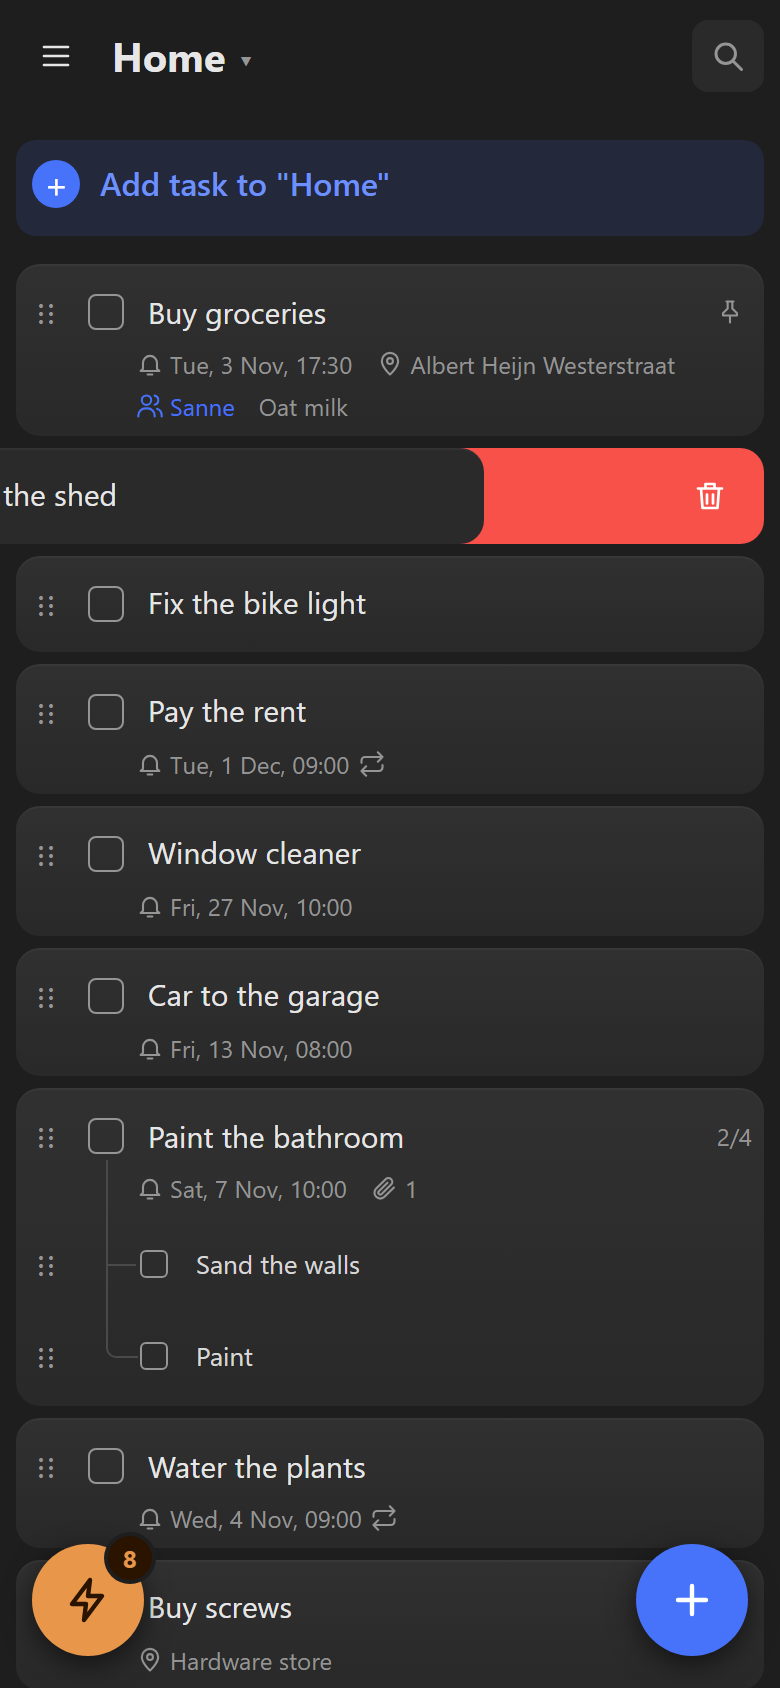
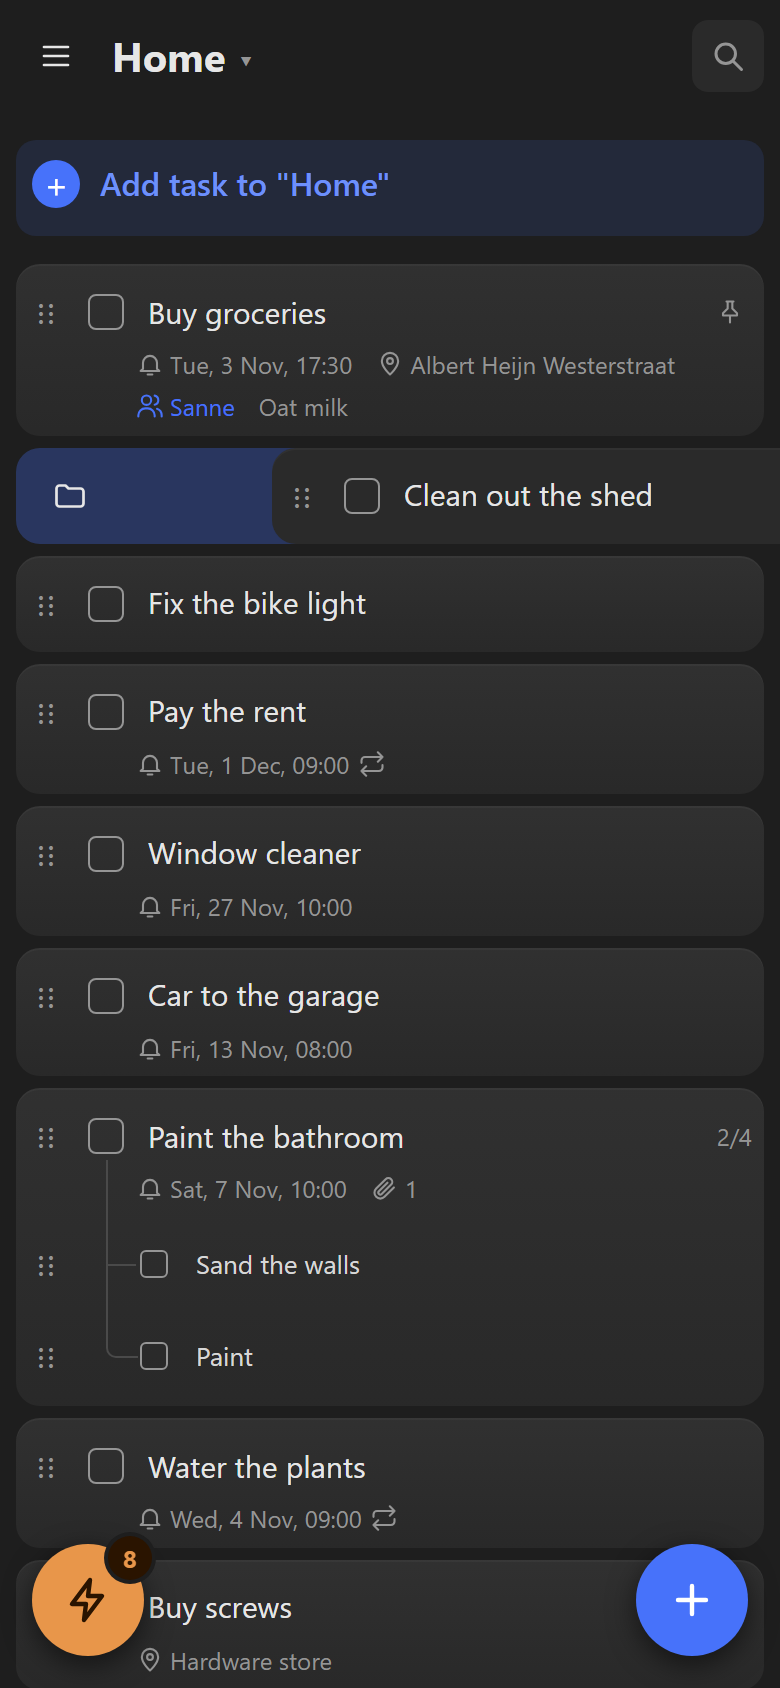
README in dark mode: gekleurde kaarten met vergrootglas, gewonere taal bovenaan
Feature-kaarten met een telefoon en een vergroot detail, een hero met drie
telefoons, donkere tegels en een statusbalk boven de schermen. Vegen naar
rechts, zodat de taak in beeld blijft. Uit een boomer- en een designer-review:
de NOTE in gewone taal met een directe link naar de app, een onderschrift
bij de hero en de techniek onder 'For developers'.

Changed region(s): [[0.5231, 0.2464, 0.9846, 0.3389], [0.0, 0.2464, 0.3692, 0.3389], [0.4308, 0.2773, 0.4923, 0.3081]]

diff --git a/docs/screenshots/src/compose.html b/docs/screenshots/src/compose.html
@@ -15,7 +15,7 @@
 
   .phone { --w: 200px; width: var(--w); aspect-ratio: 390 / 844; flex: none; position: relative;
     background: #0d0f14; border-radius: calc(var(--w) * .16); padding: calc(var(--w) * .035);
-    box-shadow: inset 0 0 0 1.5px #3a404d, 0 10px 24px rgb(0 0 0 / .22), 0 2px 6px rgb(0 0 0 / .12); }
+    box-shadow: inset 0 0 0 2px #4b5563, 0 10px 24px rgb(0 0 0 / .22), 0 2px 6px rgb(0 0 0 / .12); }
   .phone .scr { width: 100%; height: 100%; border-radius: calc(var(--w) * .125); overflow: hidden; background: #fff; }
   /* A status bar above the app, so the notch does not cover its header */
   .phone .bar { height: calc(var(--w) * .12); display: flex; align-items: center; justify-content: space-between;
@@ -70,7 +70,84 @@
     box.append(img);
     stage.append(box);
   }
-  if (q.get('bg')) document.body.style.background = q.get('bg');
+  // A crop on a dark page: a hairline instead of a shadow, which would leave a haze on GitHub's dark background
+  // (and transparent room around it, so it floats in its table cell instead of touching the cell's borders)
+  if (type === 'crop' && q.get('flat')) {
+    stage.style.padding = '12px';
+    stage.firstChild.style.boxShadow = 'inset 0 0 0 1px rgb(255 255 255 / .1)';
+    stage.firstChild.style.background = '#' + (bars[0] || '1e1e1e');
+  }
+
+  /* ?type=banner&img=&img2=&img3=&bg=           three phones on a coloured card, running off its bottom edge
+     ?type=card&img=&bg=&accent=&pill=&ring=x,y,w,h[,round]&crop=x,y,cw,ch[&cimg=]
+       one phone on a coloured card, a ring around a detail and that detail magnified beside it.
+       ring and crop are in the CSS pixels of a 390 px wide screen. */
+  function panel(w, h, bg) {
+    stage.style.padding = '0';
+    const c = document.createElement('div');
+    c.style.cssText = `position:relative;overflow:hidden;width:${w}px;height:${h}px;border-radius:28px;background:#${bg}`;
+    stage.append(c);
+    return c;
+  }
+  function place(el, x, y) {
+    el.style.position = 'absolute';
+    el.style.left = x + 'px';
+    el.style.top = y + 'px';
+    return el;
+  }
+  if (type === 'banner') {
+    const c = panel(880, 440, q.get('bg') || '1e293b');
+    // a soft yellow light behind the middle phone gives the card a focal point
+    c.style.background = `radial-gradient(420px 300px at 50% 70%, #facc1533, transparent), #${q.get('bg') || '1e293b'}`;
+    const side = (name, i, x) => {
+      const p = place(phone(name, 190, i), x, 112);
+      p.style.filter = 'brightness(.72)';
+      return p;
+    };
+    // the middle phone last, so it lies on top of the other two
+    c.append(side(q.get('img'), 0, 110), side(q.get('img3'), 2, 580), place(phone(q.get('img2'), 250, 1), 315, 44));
+  }
+  if (type === 'card') {
+    // &flip=1: phone on the right, magnified detail on the left; &h=: a shorter card when the screen is empty below
+    const W = 880, H = num('h', 420), accent = '#' + (q.get('accent') || 'fcd34d'), flip = !!q.get('flip');
+    const c = panel(W, H, q.get('bg') || '1e293b');
+    const pw = 250, px = flip ? W - 64 - pw : 64, py = 44;
+    c.append(place(phone(q.get('img'), pw, 0), px, py));
+    // where the screen content starts on the card, and its scale
+    const s = (pw - pw * 0.035 * 2) / 390, sx = px + pw * 0.035, sy = py + pw * 0.035 + pw * 0.12;
+
+    const [rx, ry, rw, rh] = q.get('ring').split(',').map(Number), round = q.get('ring').endsWith('round');
+    const ring = place(document.createElement('div'), sx + rx * s - 4, sy + ry * s - 4);
+    ring.style.cssText += `;width:${rw * s + 8}px;height:${rh * s + 8}px;border-radius:${round ? '50%' : '14px'};` +
+      `box-shadow:0 0 0 3px ${accent},0 0 18px 2px ${accent}55`;
+    c.append(ring);
+
+    const [cx, cy, cw, ch] = q.get('crop').split(',').map(Number);
+    const zw = 420, z = zw / cw, zh = ch * z, zx = flip ? 60 : 400, zy = Math.max(84, Math.min(H - zh - 40, (H - zh) / 2 + 20));
+    const zoom = place(document.createElement('div'), zx, zy);
+    zoom.style.cssText += `;width:${zw}px;height:${zh}px;overflow:hidden;border-radius:20px;background:#${bars[0] || '1e1e1e'};` +
+      `box-shadow:0 0 0 3px ${accent},0 24px 48px rgb(0 0 0 / .45)`;
+    const img = new Image();
+    img.src = src(q.get('cimg') || q.get('img'));
+    img.style.cssText = `position:absolute;width:${390 * z}px;left:${-cx * z}px;top:${-cy * z}px`;
+    zoom.append(img);
+
+    // a line from the ring to the magnified detail
+    const ax = flip ? sx + rx * s - 6 : sx + (rx + rw) * s + 6, ay = sy + (ry + rh / 2) * s;
+    const bx = flip ? zx + zw + 3 : zx - 3, by = zy + zh / 2;
+    const line = place(document.createElement('div'), ax, ay - 1.25);
+    line.style.cssText += `;width:${Math.hypot(bx - ax, by - ay)}px;height:2.5px;background:${accent};transform-origin:0 50%;` +
+      `transform:rotate(${Math.atan2(by - ay, bx - ax)}rad)`;
+    c.append(line, zoom);
+
+    if (q.get('pill')) {
+      const pill = place(document.createElement('span'), zx, 36);
+      pill.textContent = q.get('pill');
+      pill.style.cssText += `;font:600 15px/1 "Segoe UI",system-ui,sans-serif;color:#${q.get('bg')};background:${accent};padding:8px 14px;border-radius:99px`;
+      c.append(pill);
+    }
+  }
+  if (q.get('bg') && type !== 'banner' && type !== 'card') document.body.style.background = q.get('bg');
 </script>
 </body>
 </html>

diff --git a/README.md b/README.md
@@ -11,51 +11,41 @@
 
 > [!NOTE]
 > **What you're getting**
-> - ☁ Tick runs on **your own free Cloudflare account**. Setting it up takes **about 15 minutes** with [Claude Code](#get-your-own-in-about-15-minutes): no server, no subscription, no ads.
-> - 🤖 **Android:** an [app](https://github.com/DioVayne/tick/releases/latest/download/Tick.apk) with a home-screen widget and reminders by place. 🌐 **Web:** any browser, installable, works offline.
-> - 🍎 **iPhone and iPad:** the [web app](docs/iphone.md) only for now, so reminders by time but **no reminders by place**.
+> - 💸 **Free:** no subscription, no ads, no company that can switch it off.
+> - 🤖 **Android:** an app with a home-screen widget and reminders by place. 🍎 **iPhone and iPad:** the [web app](docs/iphone.md), with reminders by time but **no reminders by place**. 🌐 Any browser works too, also offline.
+> - 🛠 **Someone sets it up once** on a computer, in [about 15 minutes](#get-your-own-in-about-15-minutes): Claude Code does the work, on a free Cloudflare account. After that, everyone just uses the app. Not technical? Ask whoever helps you with computers to do this step.
+> - 📲 **Already have a Tick address?** [Download the Android app](https://github.com/DioVayne/tick/releases/latest/download/Tick.apk), open it and type that address.
 
 <p align="center">
-  <img src="docs/screenshots/hero.png" width="628" alt="Three phones with Tick in light mode: the Home list with Buy groceries pinned at the top, the task Buy groceries with a reminder at 17:30, a place reminder at the supermarket, shared with Sanne and a shopping checklist, and the shared list Weekend in the Ardennes with Take it buttons and who is on what">
+  <img src="docs/screenshots/hero.png" width="880" alt="Three phones with Tick in dark mode on a slate blue card: the Home list, the task Buy groceries with a reminder at 17:30, a place reminder at the supermarket, shared with Sanne and a shopping checklist, and the shared list Weekend in the Ardennes with who is on what"><br>
+  <sub>Your lists, a task with a time <i>and</i> a place, and a list you share with friends.</sub>
 </p>
 
 ## 📍 Reminders by place
 
-<img src="docs/screenshots/feature-places.png" align="right" width="384" alt="The place picker: a map of Amsterdam with a pin and the circle around it, favorite places Hardware store, Home and Supermarket, and the choice between On arrival and On leaving">
+<img src="docs/screenshots/feature-places.png" width="880" alt="On a green card: the place picker on a phone, with a ring around the circle on the map and that circle magnified beside it: the pin at the supermarket and the area that counts as arriving. A label says Android app.">
 
 Your shopping list pops up as you walk into the supermarket. The screws, the moment you park at the hardware store. The parcel, as you step out the door.
 
-Pin a place on the map, set the radius and choose **on arrival** or **on leaving**. Favorite places are one tap away, and a task can have a time *and* a place. Driving or cycling? Turn on *On time on the road* in the Android app and Tick makes the circle bigger, so the reminder is not late.
-
-Your phone watches the places itself and only tells Tick that a reminder went off: there is no log of where you have been.
+Pin a place on the map, set the radius and choose **on arrival** or **on leaving**. Favorite places are one tap away, and a task can have a time *and* a place. Driving or cycling? Turn on *On time on the road* in the Android app and Tick makes the circle bigger, so the reminder is not late. Your phone watches the places itself and only tells Tick that a reminder went off: there is no log of where you have been.
 
 <sup>Remember <a href="https://www.howtogeek.com/google-killed-an-essential-keep-notes-feature-but-its-part-of-a-bigger-problem/">Google Keep</a> had this, until they took it away? Reminders by place need the Android app. More in [Places](docs/places.md).</sup>
 
-<br clear="right">
-
 ## 👥 Share with the people you live with
 
-<img src="docs/screenshots/feature-sharing.png" align="left" width="384" alt="The shared list Weekend in the Ardennes: Groceries for Friday and Hiking map with a Take it button, Sanne is on Board games, you are on Firewood, Alex is on Rent a car, and two ticked-off tasks with who ticked them off and when">
+<img src="docs/screenshots/feature-sharing.png" width="880" alt="On a blue card: the shared list Weekend in the Ardennes on a phone, with a ring around Board games and that task magnified beside it: Sanne is on it, and above it Groceries for Friday with a Take it button. A label says Web and Android.">
 
-Your partner, friends or family each get their own account on your Tick.
+Your partner, friends or family each get their own account on your Tick. **Share a whole list**, like the groceries for the house or the packing list for a weekend away: everyone adds and ticks off. Tap **Take it** and the others see *Sanne is on it*, so nobody buys the board games twice. Ticked-off tasks show who did it and when.
 
-**Share a whole list**, like the groceries for the house or the packing list for a weekend away. Everyone adds and ticks off. Tap **Take it** and the others see *Sanne is on it*, so nobody buys the board games twice. Ticked-off tasks show who did it and when.
-
-**Or share one task**: as one task (done is done for everyone), or as a copy for each person so you see how far the others are. A reminder on a shared task reaches everyone on it.
-
-More in [Sharing](docs/sharing.md).
-
-<br clear="left">
+**Or share one task**: as one task (done is done for everyone), or as a copy for each person so you see how far the others are. A reminder on a shared task reaches everyone on it. More in [Sharing](docs/sharing.md).
 
 ## ⚡ Old tasks get a second chance
 
-<img src="docs/screenshots/feature-tickmanager.png" align="right" width="384" alt="The Tickmanager: task 1 of 8, Clean out the shed in the list Home, not looked at for 4 months, with the buttons Schedule, Move to top, Leave it and Delete">
+<img src="docs/screenshots/feature-tickmanager.png" width="880" alt="On an amber card: the Tickmanager on a phone, with a ring around the task Clean out the shed and that part magnified beside it: in the list Home, not looked at for 4 months, with the buttons Schedule, Move to top, Leave it and Delete. A label says Web and Android.">
 
 Every list has them: tasks that sank to the bottom months ago. The **Tickmanager** brings them back one at a time, oldest first, and you decide in one tap: **schedule** it, **move it to the top**, **leave it** or **delete** it.
 
 An orange button shows how many are waiting. Pinned, repeating and planned tasks stay out of it, and you choose which lists take part. More in [Tickmanager](docs/tickmanager.md).
-
-<br clear="right">
 
 ## Also in the box
 
@@ -71,14 +61,14 @@ An orange button shows how many are waiting. Pinned, repeating and planned tasks
     <td valign="top"><img src="docs/screenshots/tile-attachments.png" width="260" alt="A task with a photo of three paint colours as an attachment"><br><b>📎 <a href="docs/tasks-and-lists.md">Photos and files</a></b><br>Add them to any task.</td>
   </tr>
   <tr>
-    <td valign="top"><img src="docs/screenshots/tile-swipe.png" width="260" alt="A task being swiped to the left, with a red delete area behind it"><br><b>👆 <a href="docs/tasks-and-lists.md">Swipe</a></b><br>Left to delete, right to move it to another list.</td>
+    <td valign="top"><img src="docs/screenshots/tile-swipe.png" width="260" alt="A task being swiped to the right, with a folder behind it to move it to another list"><br><b>👆 <a href="docs/tasks-and-lists.md">Swipe</a></b><br>Right to move it to another list, left to delete.</td>
     <td valign="top"><img src="docs/screenshots/tile-drag.png" width="260" alt="A task being dragged to another place in the list"><br><b>↕ <a href="docs/tasks-and-lists.md">Drag and drop</a></b><br>Put your tasks in the order you want.</td>
     <td valign="top"><img src="docs/screenshots/tile-group-tasks.png" width="260" alt="Copies of a task for Alex, Sanne and you, with Sanne done"><br><b>👪 <a href="docs/sharing.md">Group tasks</a></b><br>Everyone their own copy; see who is done.</td>
   </tr>
   <tr>
     <td valign="top"><img src="docs/screenshots/tile-driving.png" width="260" alt="Driving mode detected, with Not now and Never"><br><b>🚗 <a href="docs/driving-mode.md">Driving mode</a></b><br>Big and simple while you drive, nearby tasks first.</td>
     <td valign="top"><img src="docs/screenshots/tile-offline.png" width="260" alt="Not saved yet, no connection, above the list"><br><b>✈ <a href="docs/tasks-and-lists.md">Works offline</a></b><br>Changes are sent when you are back online.</td>
-    <td valign="top"><img src="docs/screenshots/tile-dark-mode.png" width="260" alt="The Home list in dark mode"><br><b>🌙 <a href="docs/settings.md">Dark mode</a></b><br>And colour themes, such as <i>Retro 70s</i>.</td>
+    <td valign="top"><img src="docs/screenshots/tile-light-mode.png" width="260" alt="The Home list in light mode"><br><b>☀ <a href="docs/settings.md">Light or dark</a></b><br>And colour themes, such as <i>Retro 70s</i>.</td>
   </tr>
 </table>
 
@@ -115,12 +105,14 @@ Claude asks a few questions (language, time zone, Android app or not), sets ever
 
 </details>
 
-## Requirements
+## For the person setting it up
+
+### What you need
 1. [Claude Code](https://claude.com/claude-code) (or do it by hand with [SETUP.md](SETUP.md)).
-2. A free [Cloudflare](https://dash.cloudflare.com/sign-up) account. No credit card needed: only the optional attachments ask for a payment method on file (Cloudflare R2, see step 11 of [SETUP.md](SETUP.md)).
+2. A free [Cloudflare](https://dash.cloudflare.com/sign-up) account. No credit card needed. Only if you turn on photos and files on tasks (optional) does Cloudflare ask for a payment method on file (Cloudflare R2, see step 11 of [SETUP.md](SETUP.md)).
 3. [Node.js](https://nodejs.org) 22 or newer and [git](https://git-scm.com). Claude Code checks this and tells you if something is missing.
 
-## How to install (short version)
+### How to install (short version)
 1. Make a free Cloudflare account and open **Workers & Pages** once in the dashboard, so your account gets its `workers.dev` address.
 2. Open Claude Code in an empty folder that is **not** inside Google Drive, OneDrive or Dropbox (npm does not work well there).
 3. Paste this:
@@ -131,10 +123,13 @@ Claude asks a few questions (language, time zone, Android app or not), sets ever
 
 Updating later: open the folder in Claude Code and say *"update Tick"*.
 
-## Built with
+<details>
+<summary><b>For developers</b>: how it is built, commands, tests, the database and security</summary>
+
+### Built with
 A Cloudflare Worker ([Hono](https://hono.dev)) with D1, static assets and a cron trigger. The web app is vanilla JavaScript without a build step. Push through [@pushforge/builder](https://www.npmjs.com/package/@pushforge/builder), maps through [Leaflet](https://leafletjs.com) and OpenStreetMap.
 
-## Commands
+### Commands
 | | |
 |---|---|
 | `npm run dev` | Run locally on `http://127.0.0.1:8787` (copy `.dev.vars.example` to `.dev.vars`; `DEV_AUTH_BYPASS=1` skips the login, but only on `localhost` and `127.0.0.1`) |
@@ -147,14 +142,14 @@ A Cloudflare Worker ([Hono](https://hono.dev)) with D1, static assets and a cron
 | `node scripts/gen-vapid.mjs` | New key pair for web push |
 | `node scripts/import-ticktick.mjs <csv>` | Turn a TickTick backup into `import.sql` (the app can also import it: Settings → Data) |
 
-## Tests
+### Tests
 - Vitest stays on 4.1: with Vitest 5, `@cloudflare/vitest-plugin` 1.4 crashes on Windows ("File path must be a file: URL").
 - The tests use your `wrangler.jsonc` when it exists and `wrangler.example.jsonc` otherwise (as in CI).
 
-## Database and migrations
+### Database and migrations
 The schema lives in `migrations/` and is applied with `wrangler d1 migrations apply` (`npm run db:migrate`). A schema change is always a new file (`0006_….sql`); existing migrations are never edited.
 
-## Security
+### Security
 - Your own login, no Cloudflare Access: email address and password on `/login`, then an HttpOnly cookie for 30 days, renewed automatically when you use Tick in the second half of that period.
 - At most 5 login attempts per minute per IP (Workers Rate Limiting), then a 429.
 - Android: `Authorization: Bearer <key>` with a key you make in the app (or the old `API_TOKEN`): full access to the tasks, but not to settings, keys or your password.
@@ -164,8 +159,10 @@ The schema lives in `migrations/` and is applied with `wrangler d1 migrations ap
 - Without `SESSION_SECRET`, or without any password (none set in the app and no `LOGIN_PASSWORD`), nobody can log in (fail closed).
 - **Log out on other devices:** Settings → Account. **Forgot your password:** see "Good to know" in [SETUP.md](SETUP.md).
 
-## Contributing
+### Contributing
 Issues and pull requests are welcome. Every visible text goes into `public/i18n.js` in both `en` and `nl`; run `npm run typecheck` and `npm test` before you open a pull request.
+
+</details>
 
 ## License
 [MIT](LICENSE)
